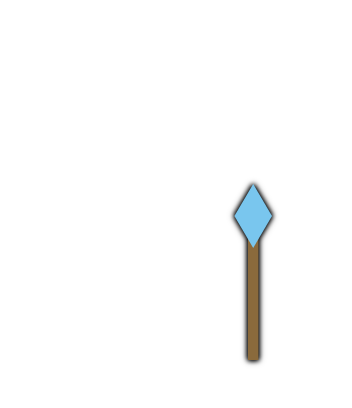
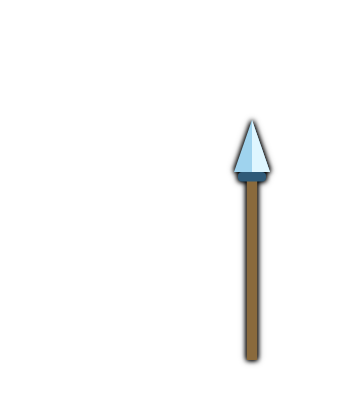
Eis: Speerwurf, dicker Eisspeer, Schneewolke, Eisdrache (26u)
Claude-Session: https://claude.ai/code/session_012Nsno37nEjc4wateER8C5H

Changed region(s): [[0.6562, 0.2941, 0.7812, 0.8824]]

diff --git a/index.html b/index.html
@@ -222,7 +222,7 @@ const FIREBASE_CONFIG = {
   appId: "1:45840879921:web:f4f4f8bb60e49a091ae010"
 };
 const GAME_ID = "spiel1";   // anderer Name = eigenes, getrenntes Spiel
-const VERSION = "2026-10-26t";  // bei JEDER Änderung hochzählen: alte Handys merken so, dass sie neu laden müssen
+const VERSION = "2026-10-26u";  // bei JEDER Änderung hochzählen: alte Handys merken so, dass sie neu laden müssen
 
 /* =====================================================================
    SPIELDATEN – Regeln und Zahlen. Alles hier darf geändert werden.
@@ -340,7 +340,7 @@ const ELEMENTS = [
     ['Frostnova',    'Effekt',    2.0, 1/8, 1, 0.15, 3,    0, 1.6, {effect:'stun', rateUp:Math.pow(8/6, 1/5), fly:false, nova:true, chance:0.45, chanceUp:0.04, chanceMax:0.65}],  // friert im Umkreis 3 s ein (45–65 % je Stufe), alle 8 s (Stufe 6: alle 6 s)
     ['Eisspeer',     'Schaden',   3.8, 0.5, 1, 2.7, 0.2, 4],
     ['Blizzard',     'Fläche',    2.5, 1.5, 5, 1.5, 0.4, 15, 1.2],
-    ['Ewiges Eis',   'Effekt',    3.0, 0.5, 6, 0.68, 0.55, DAY, 0, {fly:false}] ]},
+    ['Eisdrache',    'Effekt',    3.0, 0.5, 6, 0.68, 0.55, DAY, 0, {fly:false}] ]},
   { name:'Schatten', kraftT:[1, 1, 1, 1, 1, 1, 1, 1], kraft:1.082, kraftBlock:[1, 0.65, 1, 1, 1, 1, 1, 1], emo:'🌑', color:'#a58ad8', upDmg:[2.35, 2.1, 1.85, 1.6, 1.5],   // 17.10. (L): Balancing-Schleife 5;   // 13.10. (F): Schaden je Upgrade ab Stufe 4 flacher (Irrlicht-Verstärkung + Rüstung ignorieren ab Runde 10 zu stark)
     note:'Fluch (mehr Schaden, Rüstung bröckelt für alle) · Irrlicht verstärkt und durchdringt Rüstung · nachts (19 Uhr) nachtaktive Monster nur im Lichtkreis', effect:'curse', armorDmg:0, dayOnly:true, costOverride:{1:30}, towers:[
     ['Schemen',      'Schaden',   2.0, 1,   1, 1.1, 0.1, 4],
@@ -1895,7 +1895,7 @@ function drawTower(c, tw, px, py, cs, aim, glow, noBody){
 }
 const TIMG = {};   // 26.10. (F): freistehende Turm-Bilder der Schräg-Ansicht, assets/turm/<element>-<nr>.png (88×102-Raster, Fußpunkt bei y=92), Entwürfe/Quelle: team/GRAFIK.md
 const TOWER_NAME = ['feuer', 'eis', 'schatten', 'stein'];
-const TOWER_H = { feuer:[22,42,26,34,52,69.5,52,42], eis:[26,34.5,66.4,57,39.9,58.2,48,66], schatten:[26,44,39,44,26.6,49,48,60], stein:[48,30,58,62,22,70,33,88] };   // Höhe der Zeichnung über dem Fuß (Raster-Einheiten)
+const TOWER_H = { feuer:[22,42,26,34,52,69.5,52,42], eis:[26,34.5,66.4,62,39.9,58.2,48,60], schatten:[26,44,39,44,26.6,49,48,60], stein:[48,30,58,62,22,70,33,88] };   // Höhe der Zeichnung über dem Fuß (Raster-Einheiten)
 function loadImg(k){   // bei Ladefehler bis zu 3 Wiederholungen (Handy-Netz)
   if (k in TIMG) return TIMG[k] && TIMG[k].complete && TIMG[k].naturalWidth ? TIMG[k] : null;
   const im = new Image(); im.onerror = () => { TIMG[k] = null; loadImg.n[k] = (loadImg.n[k] || 0) + 1; if (loadImg.n[k] < 4) setTimeout(() => { delete TIMG[k]; loadImg(k); }, 1500*loadImg.n[k]); }; im.onload = () => { if (!view25 || typeof drawAll !== 'function') return; drawAll(); clearTimeout(towerImg.t); towerImg.t = setTimeout(() => { if (G && typeof render === 'function') render(); }, 80); }; im.src = 'assets/turm/' + k + '.png'; TIMG[k] = im; return null;
@@ -1927,11 +1927,13 @@ const PARTS = (() => {
     eis0: [[0, -4, (t, g, w, dx) => ({ y: -2*S(t*3) - 3*w, x: dx*2*w, r: .04*S(t*2) })]],
     eis1: [[0, -18, (t, g, w) => ({ y: -7*w, sy: 1 - .06*S(t*2), sx: 1 + .03*S(t*2) })]],
     eis2: [[0, -12, (t, g, w, dx, dy) => ({ x: -dx*4*g, y: -dy*3*g })]],
-    eis3: [[19, -2, (t, g, w) => ({ r: .06*S(t*2) - .25*w, y: -4*w })]],
+    eis3: [[19, -30, (t, g, w, dx, dy) => { const p = 1 - g, r = Math.atan2(dy, Math.abs(dx)) + PI/2;   // Speer: dreht sich zum Ziel, wird geworfen, neuer erscheint
+        return g <= 0 ? { r: .05*S(t*2) } : p < .1 ? { r: r*(p/.1) } : { r: 0, a: p < .6 ? 0 : Math.min(1, (p - .6)/.25) }; }]],
     eis4: [[0, -26, (t, g, w) => ({ r: t*.6 + 3*w, ...sc(1 + .15*g) })]],
     eis5: [[0, -12, (t, g, w) => ({ x: .24*9*w, y: -.97*9*w })]],
     eis6: [[0, -26, (t, g) => sc(1 + .06*S(t*2) + .2*g)]],
-    eis7: [[0, -30, (t, g) => ({ r: 2*PI*(1 - g) })], [0, -32, (t, g) => sc(1 + .05*S(t*2) + .15*g)]],
+    eis7: [[6, -24, (t, g, w, dx, dy) => ({ r: Math.max(-.6, Math.min(.6, Math.atan2(dy, Math.abs(dx))))*.8 + .04*S(t*1.6) - .18*w })],      // Kopf hebt sich zum Ziel und stößt beim Atem vor
+            [-2, -27, (t, g, w) => ({ r: .1*S(t*2.4) - .4*w })]],
     schatten0: [[0, -4, (t, g, w, dx) => ({ y: -1.5*S(t*2.5) - 2*w, sy: 1 + .03*S(t*2.5), x: dx*3*w })]],
     schatten1: [[0, -22, (t, g) => sc(1 + .1*S(t*3) + .1*g)]],
     schatten2: [[0, -30, (t) => ({ sy: S(t*.9) > .985 ? .15 : 1 })], [0, -30, (t, g, w, dx, dy) => ({ x: dx*3, y: dy*2, ...sc(1 + .2*g) })]],
@@ -1951,17 +1953,17 @@ const PARTS = (() => {
   };
 })();
 const JETS = {};   // Flammenwerfer: letztes Ziel je Turm (Simulationszeit), daraus entsteht die zusammenhängende Flamme
-function drawFlame(c, mx, my, hx, hy, cs, now, a){   // 26o (F): Flamme von der Mündung bis zum Ziel, wellig, in drei Schichten, mit Funken und Einschlag
+function drawFlame(c, mx, my, hx, hy, cs, now, a, ice){   // 26o (F): Flamme von der Mündung bis zum Ziel, wellig, in drei Schichten, mit Funken und Einschlag
   const ang = Math.atan2(hy - my, hx - mx), len = Math.hypot(hx - mx, hy - my); if (len < 3) return;
   c.save(); c.globalAlpha = a; c.translate(mx, my); c.rotate(ang);
   const N = 16, wob = (t, ph) => Math.sin(t*9 - now*34 + ph) * (.03 + .1*t) * cs;
-  [['#d8321a', 1, 0], ['#ff8a3d', .62, 1.7], ['#ffe08a', .3, 3.1]].forEach(([col, wk, ph], j) => {
+  (ice ? [['#2f86b3', 1, 0], ['#79c6ee', .62, 1.7], ['#eaf8ff', .3, 3.1]] : [['#d8321a', 1, 0], ['#ff8a3d', .62, 1.7], ['#ffe08a', .3, 3.1]]).forEach(([col, wk, ph], j) => {
     const L = len * (j === 2 ? .8 : 1), top = [], bot = [];
     for (let k = 0; k <= N; k++) { const t = k / N, w = cs * (.05 + .17*Math.pow(t, .75)) * wk * (1 + .12*Math.sin(now*40 + k*1.3 + j)) * (k === N ? .25 : 1), y0 = wob(t, ph);
       top.push([t*L, y0 - w]); bot.push([t*L, y0 + w]); }
     c.fillStyle = col; c.beginPath(); c.moveTo(top[0][0], top[0][1]); top.forEach(q => c.lineTo(q[0], q[1])); for (let k = N; k >= 0; k--) c.lineTo(bot[k][0], bot[k][1]); c.closePath(); c.fill(); });
-  for (let k = 0; k < 7; k++) { const t = ((now*2.6 + k/7) % 1), y0 = wob(t, 1) + Math.sin(k*5.1) * cs*.12*t; c.fillStyle = k % 2 ? '#ffe08a' : '#ff8a3d'; c.beginPath(); c.arc(t*len, y0, cs*(.035 + .02*Math.sin(k*3 + now*20)), 0, 7); c.fill(); }
-  const gr = c.createRadialGradient(len, 0, 0, len, 0, cs*.42); gr.addColorStop(0, '#ffe08af0'); gr.addColorStop(.45, '#ff8a3d99'); gr.addColorStop(1, '#ff8a3d00');
+  for (let k = 0; k < 7; k++) { const t = ((now*2.6 + k/7) % 1), y0 = wob(t, 1) + Math.sin(k*5.1) * cs*.12*t; c.fillStyle = ice ? (k % 2 ? '#ffffff' : '#bfeaff') : (k % 2 ? '#ffe08a' : '#ff8a3d'); c.beginPath(); c.arc(t*len, y0, cs*(.035 + .02*Math.sin(k*3 + now*20)), 0, 7); c.fill(); }
+  const gr = c.createRadialGradient(len, 0, 0, len, 0, cs*.42); if (ice) { gr.addColorStop(0, '#ffffffee'); gr.addColorStop(.45, '#79c6ee99'); gr.addColorStop(1, '#79c6ee00'); } else { gr.addColorStop(0, '#ffe08af0'); gr.addColorStop(.45, '#ff8a3d99'); gr.addColorStop(1, '#ff8a3d00'); }
   c.fillStyle = gr; c.beginPath(); c.arc(len, 0, cs*(.38 + .05*Math.sin(now*45)), 0, 7); c.fill();
   c.restore();
 }
@@ -1986,7 +1988,7 @@ function drawTower25(c, tw, x, y, cs, aim, glow){
     else if (nm === 'schatten0' || nm === 'schatten5') { sx = sy = 1; ox = oy = 0; }   // Schemen/Phantom: bewegt sich als Teilbild
     else if (nm === 'schatten1') { ox = 0; oy = Math.sin(now*3 + tw.x) * cs*.05 - cs*.05; sx = sy = 1; }   // Irrlicht schwebt
     else if (nm === 'feuer2' || nm === 'feuer3') { ox = -dx*cs*.07*g; }
-    const flip = (nm === 'feuer1' && Math.cos(aim) > 0) || (nm === 'feuer2' && Math.cos(aim) < 0) || (nm === 'feuer3' && Math.cos(aim) < 0) || (nm === 'feuer4' && Math.cos(aim) > 0);   // Glumanda blickt nach links, Flammenwerfer-Mündung nach rechts   // Glumanda blickt nach links und dreht sich zum Ziel: Schuss kommt aus dem Maul
+    const flip = (nm === 'feuer1' && Math.cos(aim) > 0) || (nm === 'feuer2' && Math.cos(aim) < 0) || (nm === 'feuer3' && Math.cos(aim) < 0) || (nm === 'feuer4' && Math.cos(aim) > 0) || ((nm === 'eis3' || nm === 'eis7') && Math.cos(aim) < 0);   // Glumanda blickt nach links, Flammenwerfer-Mündung nach rechts   // Glumanda blickt nach links und dreht sich zum Ziel: Schuss kommt aus dem Maul
     c.save(); c.translate(fx + ox, fy + oy); c.rotate(rotA); c.scale(flip ? -sx : sx, sy);
     c.drawImage(sp, -44*u, -92*u, 88*u, 102*u);
     const gp = Math.max(0, 1 - (now - (FIRE_T[key] === undefined ? -9 : FIRE_T[key])) / .5), wp = gp > 0 ? Math.sin(Math.PI * (1 - gp)) : 0, pd = PARTS[nm];   // bewegliche Teile
@@ -1998,8 +2000,8 @@ function drawTower25(c, tw, x, y, cs, aim, glow){
       c.drawImage(sp.parts[i], -44*u - px, -92*u - py, 88*u, 102*u); c.restore();
     }
     c.restore();
-    if (nm === 'feuer2') { const j = JETS[(tw.x + .5) + ',' + (tw.y + .5)];   // Flamme: von der Mündung zum Ziel, solange der Turm schießt
-      if (j && j.t <= now + .05 && now - j.t < .28) drawFlame(c, fx + (Math.cos(aim) > 0 ? 1 : -1)*17*u, fy - 12*u, j.tx*cs, gyOf(j.ty, cs) - cs*.25, cs, now, Math.min(1, (.28 - (now - j.t)) / .12)); }
+    if (nm === 'feuer2' || nm === 'eis7') { const j = JETS[tw.el + ':' + (tw.x + .5) + ',' + (tw.y + .5)], mxo = nm === 'eis7' ? 24 : 17, myo = nm === 'eis7' ? 43 : 12;   // Flamme / Eisfeuer: von der Mündung zum Ziel, solange der Turm schießt
+      if (j && j.t <= now + .05 && now - j.t < .28) drawFlame(c, fx + (Math.cos(aim) > 0 ? 1 : -1)*mxo*u, fy - myo*u, j.tx*cs, gyOf(j.ty, cs) - cs*.25, cs, now, Math.min(1, (.28 - (now - j.t)) / .12), nm === 'eis7'); }
     if (g > 0 && glow !== undefined) {                                              // Mündungseffekt in Elementfarbe (am Turm, in Zielrichtung)
       const mx = fx + dx*cs*.32, my = fy - hh*.55 + dy*cs*.2, col = ELEMENTS[tw.el].color;
       const fl = (r, cc) => { const gr = c.createRadialGradient(mx, my, 0, mx, my, r); gr.addColorStop(0, cc + 'dd'); gr.addColorStop(1, cc + '00'); c.fillStyle = gr; c.beginPath(); c.arc(mx, my, r, 0, 7); c.fill(); };
@@ -2097,11 +2099,20 @@ function shot25(c, p, x, y, a, cs, time){
     if (i === 0) { rot(() => { c.fillStyle = '#dff6ff'; c.beginPath(); c.moveTo(q*4, 0); c.lineTo(0, -q*1.8); c.lineTo(-q*3, 0); c.lineTo(0, q*1.8); c.fill(); c.fillStyle = '#9fd3ee'; c.beginPath(); c.moveTo(q*4, 0); c.lineTo(0, q*1.8); c.lineTo(-q*3, 0); c.fill(); }); return true; }
     if (i === 1) { ball(q*2.8, '#f4fbff', '#ffffff', '#bfeaff'); return true; }
     if (i === 2) { rot(() => { c.fillStyle = '#bfeaff'; c.beginPath(); c.moveTo(q*7, 0); c.lineTo(-q*5, -q*1.6); c.lineTo(-q*5, q*1.6); c.fill(); c.fillStyle = '#ffffff99'; c.fillRect(-q*5, -q*.5, q*10, q*.7); }); return true; }
-    if (i === 3) { c.save(); c.translate(x, y); c.rotate(w*.3); c.strokeStyle = '#eaf8ff'; c.lineWidth = q*1.1; c.lineCap = 'round'; for (let j = 0; j < 3; j++) { c.rotate(Math.PI/3); c.beginPath(); c.moveTo(-q*3.4, 0); c.lineTo(q*3.4, 0); c.stroke(); } c.restore(); return true; }
+    if (i === 3) { rot(() => { c.scale(1.3, 1.3);   // Eisspeer des Schneekönigs mit Frostschweif
+        for (let j = 3; j >= 1; j--) { c.fillStyle = j === 1 ? '#dff6ffaa' : '#79c6ee55'; c.beginPath(); c.ellipse(-q*(5 + j*3.2), Math.sin(w + j)*q*.4, q*(3.4 - j*.5), q*(1.4 - j*.2), 0, 0, 7); c.fill(); }
+        c.fillStyle = '#8a6a3c'; c.fillRect(-q*7, -q*.5, q*10, q*1); c.fillStyle = '#2f5a78'; c.fillRect(q*2, -q*1.7, q*.9, q*3.4);
+        const gr = c.createRadialGradient(q*4.5, 0, 0, q*4.5, 0, q*5); gr.addColorStop(0, '#dff6ffcc'); gr.addColorStop(1, '#79c6ee00'); c.fillStyle = gr; c.beginPath(); c.arc(q*4.5, 0, q*5, 0, 7); c.fill();
+        c.fillStyle = '#9fd3ee'; c.beginPath(); c.moveTo(q*7.4, 0); c.lineTo(q*3, -q*1.9); c.lineTo(q*3, q*1.9); c.fill(); c.fillStyle = '#eaf8ff'; c.beginPath(); c.moveTo(q*7.4, 0); c.lineTo(q*3, -q*1.9); c.lineTo(q*3, 0); c.fill(); });
+      return true; }
     if (i === 4) { ball(q*2.4, '#79c6ee', '#ffffff', '#79c6ee'); c.strokeStyle = '#eaf8ff'; c.lineWidth = q*.7; c.beginPath(); c.arc(x, y, q*4 + Math.sin(w)*q*.6, 0, 7); c.stroke(); return true; }
-    if (i === 5) { rot(() => { c.strokeStyle = '#9fd3ee'; c.lineWidth = q*1.3; c.beginPath(); c.moveTo(-q*8, 0); c.lineTo(q*4, 0); c.stroke(); c.fillStyle = '#eaf8ff'; c.beginPath(); c.moveTo(q*9, 0); c.lineTo(q*3.4, -q*2.2); c.lineTo(q*3.4, q*2.2); c.fill(); }); return true; }
+    if (i === 5) { rot(() => { const gr = c.createRadialGradient(q*2, 0, 0, q*2, 0, q*9); gr.addColorStop(0, '#bfeaffaa'); gr.addColorStop(1, '#79c6ee00'); c.fillStyle = gr; c.beginPath(); c.arc(q*2, 0, q*9, 0, 7); c.fill();   // dicker Eisspeer
+        c.fillStyle = '#6fb4d8'; c.beginPath(); c.moveTo(-q*10, -q*1.5); c.lineTo(q*4, -q*2.2); c.lineTo(q*4, q*2.2); c.lineTo(-q*10, q*1.5); c.closePath(); c.fill();
+        c.fillStyle = '#bfeaff'; c.beginPath(); c.moveTo(-q*10, -q*.6); c.lineTo(q*4, -q*1.1); c.lineTo(q*4, q*.2); c.lineTo(-q*10, q*.2); c.closePath(); c.fill();
+        c.fillStyle = '#eaf8ff'; c.beginPath(); c.moveTo(q*12, 0); c.lineTo(q*3.4, -q*3.6); c.lineTo(q*3.4, q*3.6); c.fill(); c.fillStyle = '#9fd3ee'; c.beginPath(); c.moveTo(q*12, 0); c.lineTo(q*3.4, q*3.6); c.lineTo(q*3.4, 0); c.fill();
+        c.fillStyle = '#ffffff'; for (let j = 0; j < 3; j++) { c.beginPath(); c.arc(-q*(10 + j*3) , Math.sin(w*2 + j*2)*q*1.6, q*.5, 0, 7); c.fill(); } }); return true; }
     if (i === 6) { c.fillStyle = '#e4f2fa'; for (const [dx, dy, r] of [[-1.8, 0, 2.4], [1.4, -.8, 2.8], [3, .8, 2]]) { c.beginPath(); c.arc(x + dx*q, y + dy*q, r*q, 0, 7); c.fill(); } c.fillStyle = '#fff'; for (let j = 0; j < 4; j++) { c.beginPath(); c.arc(x + Math.sin(w + j*1.7)*q*4, y + q*3 + ((w*.8 + j*2) % 4)*q*.8, q*.5, 0, 7); c.fill(); } return true; }
-    ball(q*3.4, '#79c6ee', '#ffffff', '#bfeaff'); c.fillStyle = '#fff'; for (let j = 0; j < 4; j++) { const t = w*.2 + j*Math.PI/2; c.beginPath(); c.arc(x + Math.cos(t)*q*5, y + Math.sin(t)*q*5, q*.8, 0, 7); c.fill(); } return true;
+    ball(q*1.6, '#dff6ff', '#ffffff', '#79c6ee'); return true;   // Eisdrache: der Atem wird vom Turm gezeichnet (JETS), hier nur die Spitze
   }
   if (el === 2) {
     if (i === 0) { tail(q*7, '#5b4a8666', q*3.2); ball(q*2.6, '#1a1230', '#a98bff', '#7a4be0'); return true; }
@@ -2123,6 +2134,15 @@ function shot25(c, p, x, y, a, cs, time){
   if (i === 7) { rock(q*4.6, '#8f8a84', '#b8b2aa', w*.3); c.fillStyle = '#f1f3f5'; c.beginPath(); c.arc(x - q*1, y - q*2.4, q*1.6, 0, 7); c.fill(); return true; }
   return false;
 }
+function drawSnowCloud(c, gx, gy, cs, a, time, seed){   // 26.10. (F): Schneewolke über dem Ziel, aus der es auf die Monster schneit
+  const cy = gy - cs*1.05, W = cs*.5, sc = .75 + .25*a;
+  c.save(); c.globalAlpha = Math.min(1, a);
+  for (let j = 0; j < 14; j++) { const f = (time*1.4 + j/14 + seed*.37) % 1; c.fillStyle = j % 3 ? '#ffffff' : '#bfeaff'; c.beginPath(); c.arc(gx + Math.sin(j*2.7 + time*2)*W*.55, cy + cs*.15 + f*(gy - cy - cs*.2), cs*.035, 0, 7); c.fill(); }
+  c.fillStyle = '#9db4c6'; c.beginPath(); c.ellipse(gx, cy + cs*.1, W*sc*1.05, cs*.12*sc, 0, 0, 7); c.fill();
+  c.fillStyle = '#dbe8f2'; for (const [dx, dy, r] of [[-.55, 0, .2], [-.2, -.14, .27], [.22, -.1, .24], [.55, .02, .18], [0, .03, .23]]) { c.beginPath(); c.arc(gx + dx*W*sc*1.6, cy + dy*cs*sc, r*cs*sc, 0, 7); c.fill(); }
+  c.fillStyle = '#f4faff'; for (const [dx, dy, r] of [[-.2, -.2, .14], [.2, -.16, .12]]) { c.beginPath(); c.arc(gx + dx*W*sc*1.6, cy + dy*cs*sc, r*cs*sc, 0, 7); c.fill(); }
+  c.restore();
+}
 function drawShot(c, p, cs, time){
   const dx = p.tx - p.x, dy = p.ty - p.y, dir = Math.atan2(dy, dx);
   const tot = Math.hypot(p.tx - p.x0, p.ty - p.y0) || 1, left = Math.hypot(dx, dy);
@@ -2134,7 +2154,10 @@ function drawShot(c, p, cs, time){
     c.fillStyle = '#0006'; c.beginPath(); c.ellipse(x, y, k*.12, k*.06, 0, 0, Math.PI*2); c.fill();
   }
   y -= h + (CUR.k < 1 && !p.lob ? cs*.25 : 0);
-  if (CUR.k < 1 && p.el === 0 && p.idx === 2) JETS[p.x0 + ',' + p.y0] = { tx:p.tx, ty:p.ty, t:time };   // Flammenwerfer: Ziel merken, die Flamme zeichnet der Turm
+  if (CUR.k < 1 && p.el === 0 && p.idx === 2) JETS['0:' + p.x0 + ',' + p.y0] = { tx:p.tx, ty:p.ty, t:time };   // Flammenwerfer: Ziel merken, die Flamme zeichnet der Turm
+  if (CUR.k < 1 && p.el === 1 && p.idx === 7) JETS['1:' + p.x0 + ',' + p.y0] = { tx:p.tx, ty:p.ty, t:time };   // Eisdrache: Ziel merken, der Turm zeichnet den Eisatem
+  if (CUR.k < 1 && p.el === 1 && p.idx === 3) { const f = Math.max(0, 1 - (1 - left / tot) * 5), H = TOWER_H.eis[3], uu = cs * Math.min(1.5, Math.max(.5, H * (1 + 3 * .03) / 44)) / H; x += (Math.cos(dir) > 0 ? 1 : -1) * 19 * uu * f; y -= 0; }   // Schneekönig: Speer startet in der Hand
+  if (CUR.k < 1 && p.el === 1 && p.idx === 6) drawSnowCloud(c, p.tx*cs, gyOf(p.ty, cs), cs, Math.min(1, (1 - left / tot) * 4 + .3), time, p.x0 + p.y0);   // Blizzard: Wolke über dem Ziel
   if (CUR.k < 1 && p.el === 0 && p.idx === 3) { const f = Math.max(0, 1 - (1 - left / tot) * 5), H = TOWER_H.feuer[3], uu = cs * Math.min(1.5, Math.max(.5, H * (1 + 3 * .03) / 44)) / H; x += (Math.cos(dir) > 0 ? 1 : -1) * 20 * uu * f; }   // Brandpfeil: startet vorn am Bogen
   if (CUR.k < 1 && p.el === 0 && p.idx === 4) { const f = Math.max(0, 1 - (1 - left / tot) * 5), H = TOWER_H.feuer[4], uu = cs * Math.min(1.5, Math.max(.5, H * (1 + 4 * .03) / 44)) / H; x += (Math.cos(dir) > 0 ? 1 : -1) * 17 * uu * f; }   // Feuerteufel: Dreizack startet in der Hand
   if (CUR.k < 1 && p.el === 0 && p.idx === 1) { const f = Math.max(0, 1 - (1 - left / tot) * 5), uu = cs * .609 / 26; x += (Math.cos(dir) > 0 ? 1 : -1) * 27 * uu * f; }   // Glumanda: Geschoss startet im Maul

diff --git a/tools/turm/tuerme.html b/tools/turm/tuerme.html
@@ -53,11 +53,11 @@ e:[
 ['Frostsplitter','Effekt','kleiner Eissplitter',20,46,()=>`<g data-p="0"><path d="M0 -26 L7 -6 L0 -2 L-7 -6Z" fill="#dff6ff"/><path d="M0 -26 L0 -2 L-7 -6Z" fill="#9fd3ee"/><path d="M-10 -4 L-5 -14 L-3 -4Z" fill="#bfeaff"/></g>`],
 ['Schneeball','Fläche','gestapelte Schneekugeln',26,54,()=>`<circle cx="0" cy="-8" r="12" fill="#f4fbff"/><circle cx="-3" cy="-11" r="4" fill="#fff"/><g data-p="0"><circle cx="0" cy="-26" r="8.5" fill="#eaf6ff"/><circle cx="-2" cy="-28" r="3" fill="#fff"/><circle cx="-3" cy="-27" r="1" fill="#2f5a78"/><circle cx="3" cy="-27" r="1" fill="#2f5a78"/><path d="M0 -25 l5 1.5 l-5 1Z" fill="#e8873a"/></g>`],
 ['Eiszapfen','Luftabwehr','Flak-Geschütz, schießt steil nach oben',34,48,()=>`<ellipse cx="0" cy="-3" rx="17" ry="6" fill="#2f5a78"/><rect x="-11" y="-12" width="22" height="10" rx="4" fill="#6f9fbd"/><rect x="-11" y="-12" width="22" height="3" rx="1.5" fill="#bfeaff" opacity=".7"/><g data-p="0"><g transform="translate(0,-12) rotate(-18)"><rect x="-8" y="-34" width="5.5" height="34" rx="2" fill="#9fd3ee"/><rect x="2.5" y="-34" width="5.5" height="34" rx="2" fill="#9fd3ee"/><rect x="-9" y="-38" width="7.5" height="6" rx="2" fill="#2f5a78"/><rect x="1.5" y="-38" width="7.5" height="6" rx="2" fill="#2f5a78"/><path d="M-5 -38 L-5 -50 M5 -38 L5 -52" stroke="#eaf8ff" stroke-width="2.6" stroke-linecap="round"/><path d="M-5 -52 l-2.5 6 h5Z M5 -54 l-2.5 6 h5Z" fill="#dff6ff"/><rect x="-10" y="-14" width="20" height="4" fill="#2f5a78"/></g></g><rect x="-17" y="-8" width="6" height="6" rx="1" fill="#ffd27a"/>`],
-['Schneekönig','Effekt','Eiskrone, kalter Mantel, Zepter',44,50,()=>`<path d="M-17 -2 Q-15 -26 0 -34 Q15 -26 17 -2Z" fill="#eaf6ff"/><path d="M0 -34 Q15 -26 17 -2 L4 -2Z" fill="#c4def0"/><path d="M-13 -4 Q0 -10 13 -4" stroke="#9fd3ee" stroke-width="3" fill="none"/><circle cx="0" cy="-40" r="9" fill="#f7fcff"/><path d="M-9 -44 L-9 -54 L-4.5 -48 L0 -57 L4.5 -48 L9 -54 L9 -44Z" fill="#79c6ee"/><path d="M-9 -44 L9 -44" stroke="#2f5a78" stroke-width="2"/><circle cx="-3.4" cy="-39" r="1.3" fill="#2f5a78"/><circle cx="3.4" cy="-39" r="1.3" fill="#2f5a78"/><path d="M-3 -35 Q0 -31 3 -35 Q0 -29 -3 -35Z" fill="#bfeaff"/><g data-p="0"><rect x="18" y="-34" width="2.6" height="32" fill="#8a6a3c"/><path d="M19.3 -46 L24 -38 L19.3 -30 L14.6 -38Z" fill="#79c6ee"/></g>`],
+['Schneekönig','Effekt','Eiskrone, kalter Mantel, Eisspeer',44,50,()=>`<path d="M-17 -2 Q-15 -26 0 -34 Q15 -26 17 -2Z" fill="#eaf6ff"/><path d="M0 -34 Q15 -26 17 -2 L4 -2Z" fill="#c4def0"/><path d="M-13 -4 Q0 -10 13 -4" stroke="#9fd3ee" stroke-width="3" fill="none"/><circle cx="0" cy="-40" r="9" fill="#f7fcff"/><path d="M-9 -44 L-9 -54 L-4.5 -48 L0 -57 L4.5 -48 L9 -54 L9 -44Z" fill="#79c6ee"/><path d="M-9 -44 L9 -44" stroke="#2f5a78" stroke-width="2"/><circle cx="-3.4" cy="-39" r="1.3" fill="#2f5a78"/><circle cx="3.4" cy="-39" r="1.3" fill="#2f5a78"/><path d="M-3 -35 Q0 -31 3 -35 Q0 -29 -3 -35Z" fill="#bfeaff"/><g data-p="0"><rect x="17.7" y="-50" width="2.6" height="48" fill="#8a6a3c"/><path d="M19 -62 L23.5 -49 L14.5 -49Z" fill="#9fd3ee"/><path d="M19 -62 L23.5 -49 L19 -49Z" fill="#dff6ff"/><rect x="15.5" y="-49" width="7" height="2.4" rx="1" fill="#2f5a78"/></g>`],
 ['Frostnova','Effekt','Schneeflocke über Sockel',40,54,()=>{let r='';for(let i=0;i<6;i++){const a=i*Math.PI/3;const x=Math.cos(a)*16,y=-26+Math.sin(a)*16;r+=`<line x1="0" y1="-26" x2="${x}" y2="${y}" stroke="#eaf8ff" stroke-width="3" stroke-linecap="round"/><line x1="${x*.6}" y1="${-26+Math.sin(a)*9.6}" x2="${x*.6+Math.cos(a+1)*5}" y2="${-26+Math.sin(a)*9.6+Math.sin(a+1)*5}" stroke="#bfeaff" stroke-width="2"/>`}return `<rect x="-4" y="-16" width="8" height="14" fill="#9fd3ee"/><g data-p="0">${r}<circle cx="0" cy="-26" r="4" fill="#fff"/></g>`}],
 ['Eisspeer','Schaden','langer Eisspeer, geneigt',46,48,()=>`<g data-p="0"><g transform="rotate(14)"><rect x="-2.5" y="-34" width="5" height="34" fill="#9fd3ee"/><path d="M0 -58 L7 -34 L-7 -34Z" fill="#eaf8ff"/><path d="M0 -58 L7 -34 L0 -34Z" fill="#bfeaff"/><rect x="-8" y="-12" width="16" height="4" rx="2" fill="#2f5a78"/></g></g>`],
 ['Blizzard','Fläche','Eiskrone, leuchtet blau (Symbol von Turm 8)',58,60,()=>`<path d="M-20 -2 L-16 -26 L-10 -2Z" fill="#9fd3ee"/><path d="M-10 -2 L-4 -48 L4 -2Z" fill="#dff6ff"/><path d="M-4 -48 L4 -2 L-4 -2Z" fill="#bfeaff"/><path d="M4 -2 L10 -32 L16 -2Z" fill="#9fd3ee"/><path d="M14 -2 L20 -20 L22 -2Z" fill="#bfeaff"/><g data-p="0"><circle cx="0" cy="-26" r="22" fill="#79c6ee" opacity=".18"/><circle cx="0" cy="-34" r="3" fill="#fff"/></g>`],
-['Ewiges Eis','Effekt','Eisblock mit eingefrorener Sanduhr',62,62,()=>`<g data-p="1"><circle cx="0" cy="-32" r="26" fill="#79c6ee" opacity=".16"/></g><path d="M-16 -2 L-19 -40 L0 -66 L19 -40 L16 -2Z" fill="#bfeaff"/><path d="M0 -66 L19 -40 L16 -2 L0 -2Z" fill="#8fc6e4"/><path d="M-19 -40 L0 -66 L-4 -40Z" fill="#eaf8ff"/><g data-p="0"><path d="M-8 -14 L8 -14 L1 -30 L8 -46 L-8 -46 L-1 -30Z" fill="#f7fcff" opacity=".95"/><path d="M-5 -44 L5 -44 L0 -32Z" fill="#79c6ee"/><path d="M-6 -15 L6 -15 L2 -24 L-2 -24Z" fill="#79c6ee"/><rect x="-10" y="-48" width="20" height="3" rx="1" fill="#2f5a78"/><rect x="-10" y="-13" width="20" height="3" rx="1" fill="#2f5a78"/></g>`]],
+['Ewiges Eis','Effekt','Eisdrache auf einer Eisscholle, speit Eisfeuer',62,50,()=>`<ellipse cx="0" cy="-1.5" rx="17" ry="4.5" fill="#1f3a4c" opacity=".35"/><path d="M-18 -2 L-15 -8 L-8 -6 L0 -10 L9 -6 L17 -8 L19 -2Z" fill="#bfeaff"/><path d="M-10 -14 Q-20 -12 -20 -5 Q-17 -3 -15 -6 Q-13 -9 -8 -9Z" fill="#79c6ee"/><path d="M-20 -5 L-23 -9 L-17 -7Z" fill="#eaf8ff"/><rect x="-8" y="-10" width="5" height="8" rx="2" fill="#5fa8cf"/><rect x="3" y="-10" width="5" height="8" rx="2" fill="#5fa8cf"/><path d="M-12 -14 Q-14 -28 -2 -31 Q10 -32 13 -22 Q15 -13 8 -10 Q-4 -8 -12 -14Z" fill="#79c6ee"/><path d="M-6 -12 Q2 -8 10 -13 Q12 -18 6 -16 Q-2 -14 -6 -12Z" fill="#dff6ff"/><path d="M-9 -25 L-11 -31 L-6 -28 L-5 -34 L0 -30 L2 -35 L5 -30 L9 -32 L9 -26Z" fill="#eaf8ff"/><g data-p="1"><path d="M-2 -27 Q-12 -52 -22 -44 Q-17 -42 -18 -37 Q-12 -39 -11 -33 Q-7 -34 -2 -27Z" fill="#b9e2f5"/><path d="M-2 -27 Q-12 -46 -22 -44 M-2 -27 L-18 -37 M-2 -27 L-11 -33" stroke="#5fa8cf" stroke-width="1" fill="none"/></g><g data-p="0"><path d="M5 -24 Q10 -34 10 -42" stroke="#79c6ee" stroke-width="8" fill="none" stroke-linecap="round"/><path d="M5 -48 Q14 -55 24 -48 Q27 -44 23 -41 Q17 -40 11 -38 Q4 -40 5 -48Z" fill="#9fd3ee"/><path d="M12 -40 Q19 -37 24 -42 L23 -41 Q17 -40 12 -40Z" fill="#5fa8cf"/><circle cx="12" cy="-47" r="2" fill="#fff"/><circle cx="12.6" cy="-47" r="1" fill="#2f5a78"/><path d="M7 -50 L2 -58 L11 -52Z M12 -52 L10 -60 L16 -53Z" fill="#eaf8ff"/></g>`]],
 s:[
 ['Schemen','Schaden','kapuzenartiger Schatten',22,46,()=>`<g data-p="0"><path d="M-11 -2 Q-13 -22 0 -26 Q13 -22 11 -2 Q6 -6 0 -2 Q-6 -6 -11 -2Z" fill="#150f26"/><ellipse cx="-4" cy="-14" rx="2.4" ry="3" fill="#e9dcff"/><ellipse cx="4" cy="-14" rx="2.4" ry="3" fill="#e9dcff"/></g>`],
 ['Irrlicht','Licht','schwebende Lichtkugel',28,44,()=>`<g data-p="0"><circle cx="0" cy="-22" r="22" fill="#fff4c0" opacity=".2"/><circle cx="0" cy="-22" r="14" fill="#fff4c0" opacity=".3"/><circle cx="0" cy="-22" r="7" fill="#fffbe0"/></g><path d="M-4 -2 q-2 -8 4 -10 M4 -2 q2 -6 -3 -9" stroke="#a98bff" stroke-width="2" fill="none"/>`],

diff --git a/team/UPDATES.md b/team/UPDATES.md
@@ -4,6 +4,9 @@
 Überschrift: drei Rauten, Datum Uhrzeit · L oder F · VERSION – Titel; darunter höchstens 5 Zeilen: was, warum, worauf achten.
 Mehr als 15 Einträge → die ältesten oben in team/archiv/updates-archiv.md einfügen. -->
 <!-- NEUE EINTRÄGE HIER -->
+### 26.10. 18:30 · F · 2026-10-26u – Eis: Speerwurf, dicker Eisspeer, Schneewolke, Eisdrache
+Schneekönig wirft seinen Eisspeer (dreht sich zum Ziel, Speer-Teilbild neu, Geschoss mit Frostschweif). Eisspeer-Geschoss deutlich dicker. Blizzard: Schneewolke über dem Ziel (`drawSnowCloud`), aus der es auf die Monster schneit. Ewiges Eis heißt jetzt **Eisdrache** (nur Anzeige, `spiegel.html` behält den alten Namen): neu gezeichneter Drache auf Eisscholle, Kopf und Flügel als Teilbilder, Eisatem wie beim Flammenwerfer (`drawFlame(..., ice)`, `JETS['1:…']`). `TOWER_H` eis[3] = 62, eis[7] = 60. Nur Anzeige.
+
 ### 26.10. 18:10 · F · 2026-10-26t – Höllenfeuer schießt brennende Kometen
 Geschoss (`shot25`, Feuer Nr. 8): Komet mit glühendem Kern und langem, welligem Flammenschweif, der der Flugbahn (Bogen) folgt; startet an der Turmspitze (`drawShot`, `ang25`). Beim Schuss steigen Glut und Funken vom Turm auf. Nur Anzeige.
 
@@ -45,6 +48,3 @@ Geschosse je Turm eigene Optik (`shot25`: Funke, Feuerball, Flammenstrahl, Eissp
 
 ### 26.10. 12:30 · F · 2026-10-26g – Richtige Bäume, Bauleiste für alle Elemente
 Wald: Tannen mit Stamm, Sumpf: Trauerweiden (`drawTree`, beide Ansichten) statt runder Kronen, die wie Büsche aussahen. Turm-Bilder werden beim Start vorgeladen, damit die Bauleiste bei jedem Element (nicht nur Feuer) die neuen Symbole zeigt.
-
-### 26.10. 12:00 · F · 2026-10-26f – Bauleiste mit den neuen Turm-Bildern
-In der Schräg-Ansicht zeigen Bauleiste und Dialoge (`towerIcon`) das zugeschnittene Turm-Bild statt des alten Kenney-Symbols (Symbolgröße 30 px). Das Felsen-Zeichen auf Türmen ist jetzt ein Felsbrocken statt eines Bergs. Draufsicht behält die alten Symbole.

diff --git a/team/archiv/updates-archiv.md b/team/archiv/updates-archiv.md
@@ -1,6 +1,10 @@
 # Archiv: ältere Updates (neueste oben)
 
 
+### 26.10. 12:00 · F · 2026-10-26f – Bauleiste mit den neuen Turm-Bildern
+In der Schräg-Ansicht zeigen Bauleiste und Dialoge (`towerIcon`) das zugeschnittene Turm-Bild statt des alten Kenney-Symbols (Symbolgröße 30 px). Das Felsen-Zeichen auf Türmen ist jetzt ein Felsbrocken statt eines Bergs. Draufsicht behält die alten Symbole.
+
+
 ### 26.10. 11:30 · F · 2026-10-26e – Biome: Sumpf mit Bäumen, Felsen als große Felsbrocken
 Sumpf: statt kleiner Büsche dunkelgrüne Sumpfbäume (in der Schräg-Ansicht aufrecht, nach Tiefe sortiert). Felsen: statt Berg mit Schneekappe zwei große Felsbrocken (`drawMountain`, beide Ansichten). Regeln und Gold unverändert (Felsen +30, Reichweite +15 %).
 
